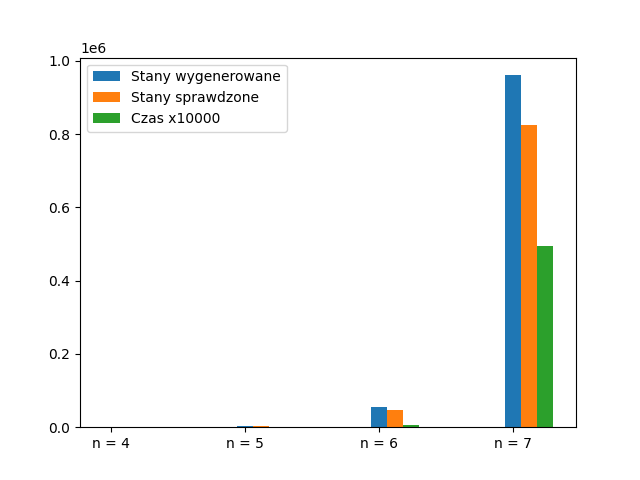
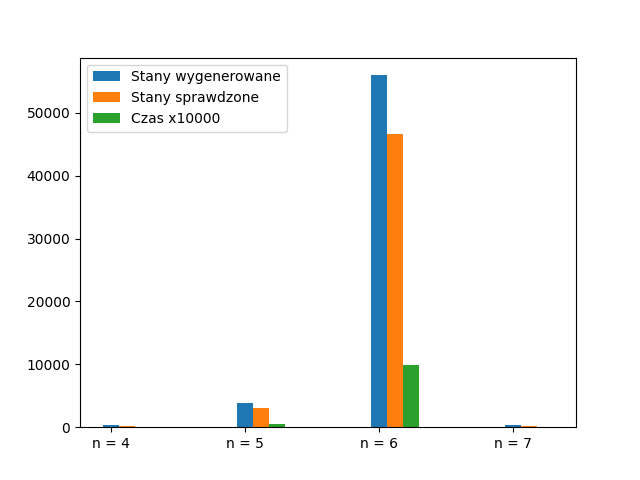
minor changes

diff --git a/SI/Grzegorz_Sawinski.py b/SI/Grzegorz_Sawinski.py
@@ -30,7 +30,7 @@ def capturing(board):
                 if idx1 > idx:
                     if attack(el, idx, el1, idx1) == True:
                         score += 1
-        result.append(score)
+        result.append([score,pos])
     print("Liczba Stanów sprawdzonych: ", cnt)
     return result, cnt
 
@@ -51,9 +51,11 @@ def main():
     data = []
     start1 = time.time()
     board, gen_states1 = board_gen(4, board)
-    print(board)
+    #print(board)
     result, chck_states1 = capturing(board)
-    print(result)
+    for el in result:
+        if el[0] == 0:
+            print(el[1])
     end1 = time.time()
     diff1 = end1 - start1
     print("Czas wykonania: ", diff1)
@@ -62,9 +64,11 @@ def main():
     board = []
     start2 = time.time()
     board, gen_states2 = board_gen(5, board)
-    print(board)
+    #print(board)
     result, chck_states2 = capturing(board)
-    print(result)
+    for el in result:
+        if el[0] == 0:
+            print(el[1])
     end2 = time.time()
     diff2 = end2 - start2
     print("Czas wykonania: ", diff2)
@@ -73,9 +77,11 @@ def main():
     board = []
     start3 = time.time()
     board, gen_states3 = board_gen(6, board)
-    print(board)
+    #print(board)
     result, chck_states3 = capturing(board)
-    print(result)
+    for el in result:
+        if el[0] == 0:
+            print(el[1])
     end3 = time.time()
     diff3 = end3 - start3
     print("Czas wykonania: ", diff3)
@@ -84,9 +90,11 @@ def main():
     board = []
     start4 = time.time()
     board, gen_states4 = board_gen(7, board)
-    print(board)
+    #print(board)
     result, chck_states4 = capturing(board)
-    print(result)
+    for el in result:
+        if el[0] == 0:
+            print(el[1])
     end4 = time.time()
     diff4 = end4 - start4
     print("Czas wykonania: ", diff4)

diff --git a/SI/DFS.py b/SI/DFS.py
@@ -1,0 +1,63 @@
+board = []
+result = []
+###inteligentne - sprawdzanie bic zawsze
+def board_gen(n, board):
+    '''Board Generation using DFS'''
+    counter = 0
+    if len(board) == 0:
+        for i in range(n):
+            board.append([str(i)])
+            counter += 1
+    while len(board[-1][0]) < n:
+        last_el = board[-1] 
+        del board[-1]
+        for i in range(n):
+            counter += 1
+            board.append([''.join(last_el) + str(i)])
+        check_if_valid
+    return board
+        
+    print("Liczba stanów wygenerowanych: ", counter)
+    return board, counter
+
+def check_if_valid(n, board):
+    check_board = []
+    for pos in board:
+        if len(pos) == n:
+            check_board.append(pos)
+        else:
+            break
+    res = capturing(board)
+    for el in res:
+        if el[0] == 0:
+            return el[1] 
+
+def capturing(board):
+    '''Captures in every position'''
+    #cnt = 0
+    result = []
+    for pos in board:
+        score = 0
+        #cnt += 1
+        for idx, el in enumerate(pos[0]):
+            for idx1, el1 in enumerate(pos[0]):
+                if idx1 > idx:
+                    if attack(el, idx, el1, idx1) == True:
+                        score += 1
+        result.append([score, pos])
+    #print("Liczba Stanów sprawdzonych: ", cnt)
+    return result
+
+
+def attack(qrow, qcolumn, orow, ocolumn):
+    '''Check if there is possible capture'''
+    if int(qrow) == int(orow):
+        return True
+    elif int(qcolumn) == int(ocolumn):
+        return True
+    elif abs(int(qrow) - int(orow)) == abs(int(qcolumn) - int(ocolumn)):
+        return True
+    else:
+        return False
+
+print(board_gen(4,board))
